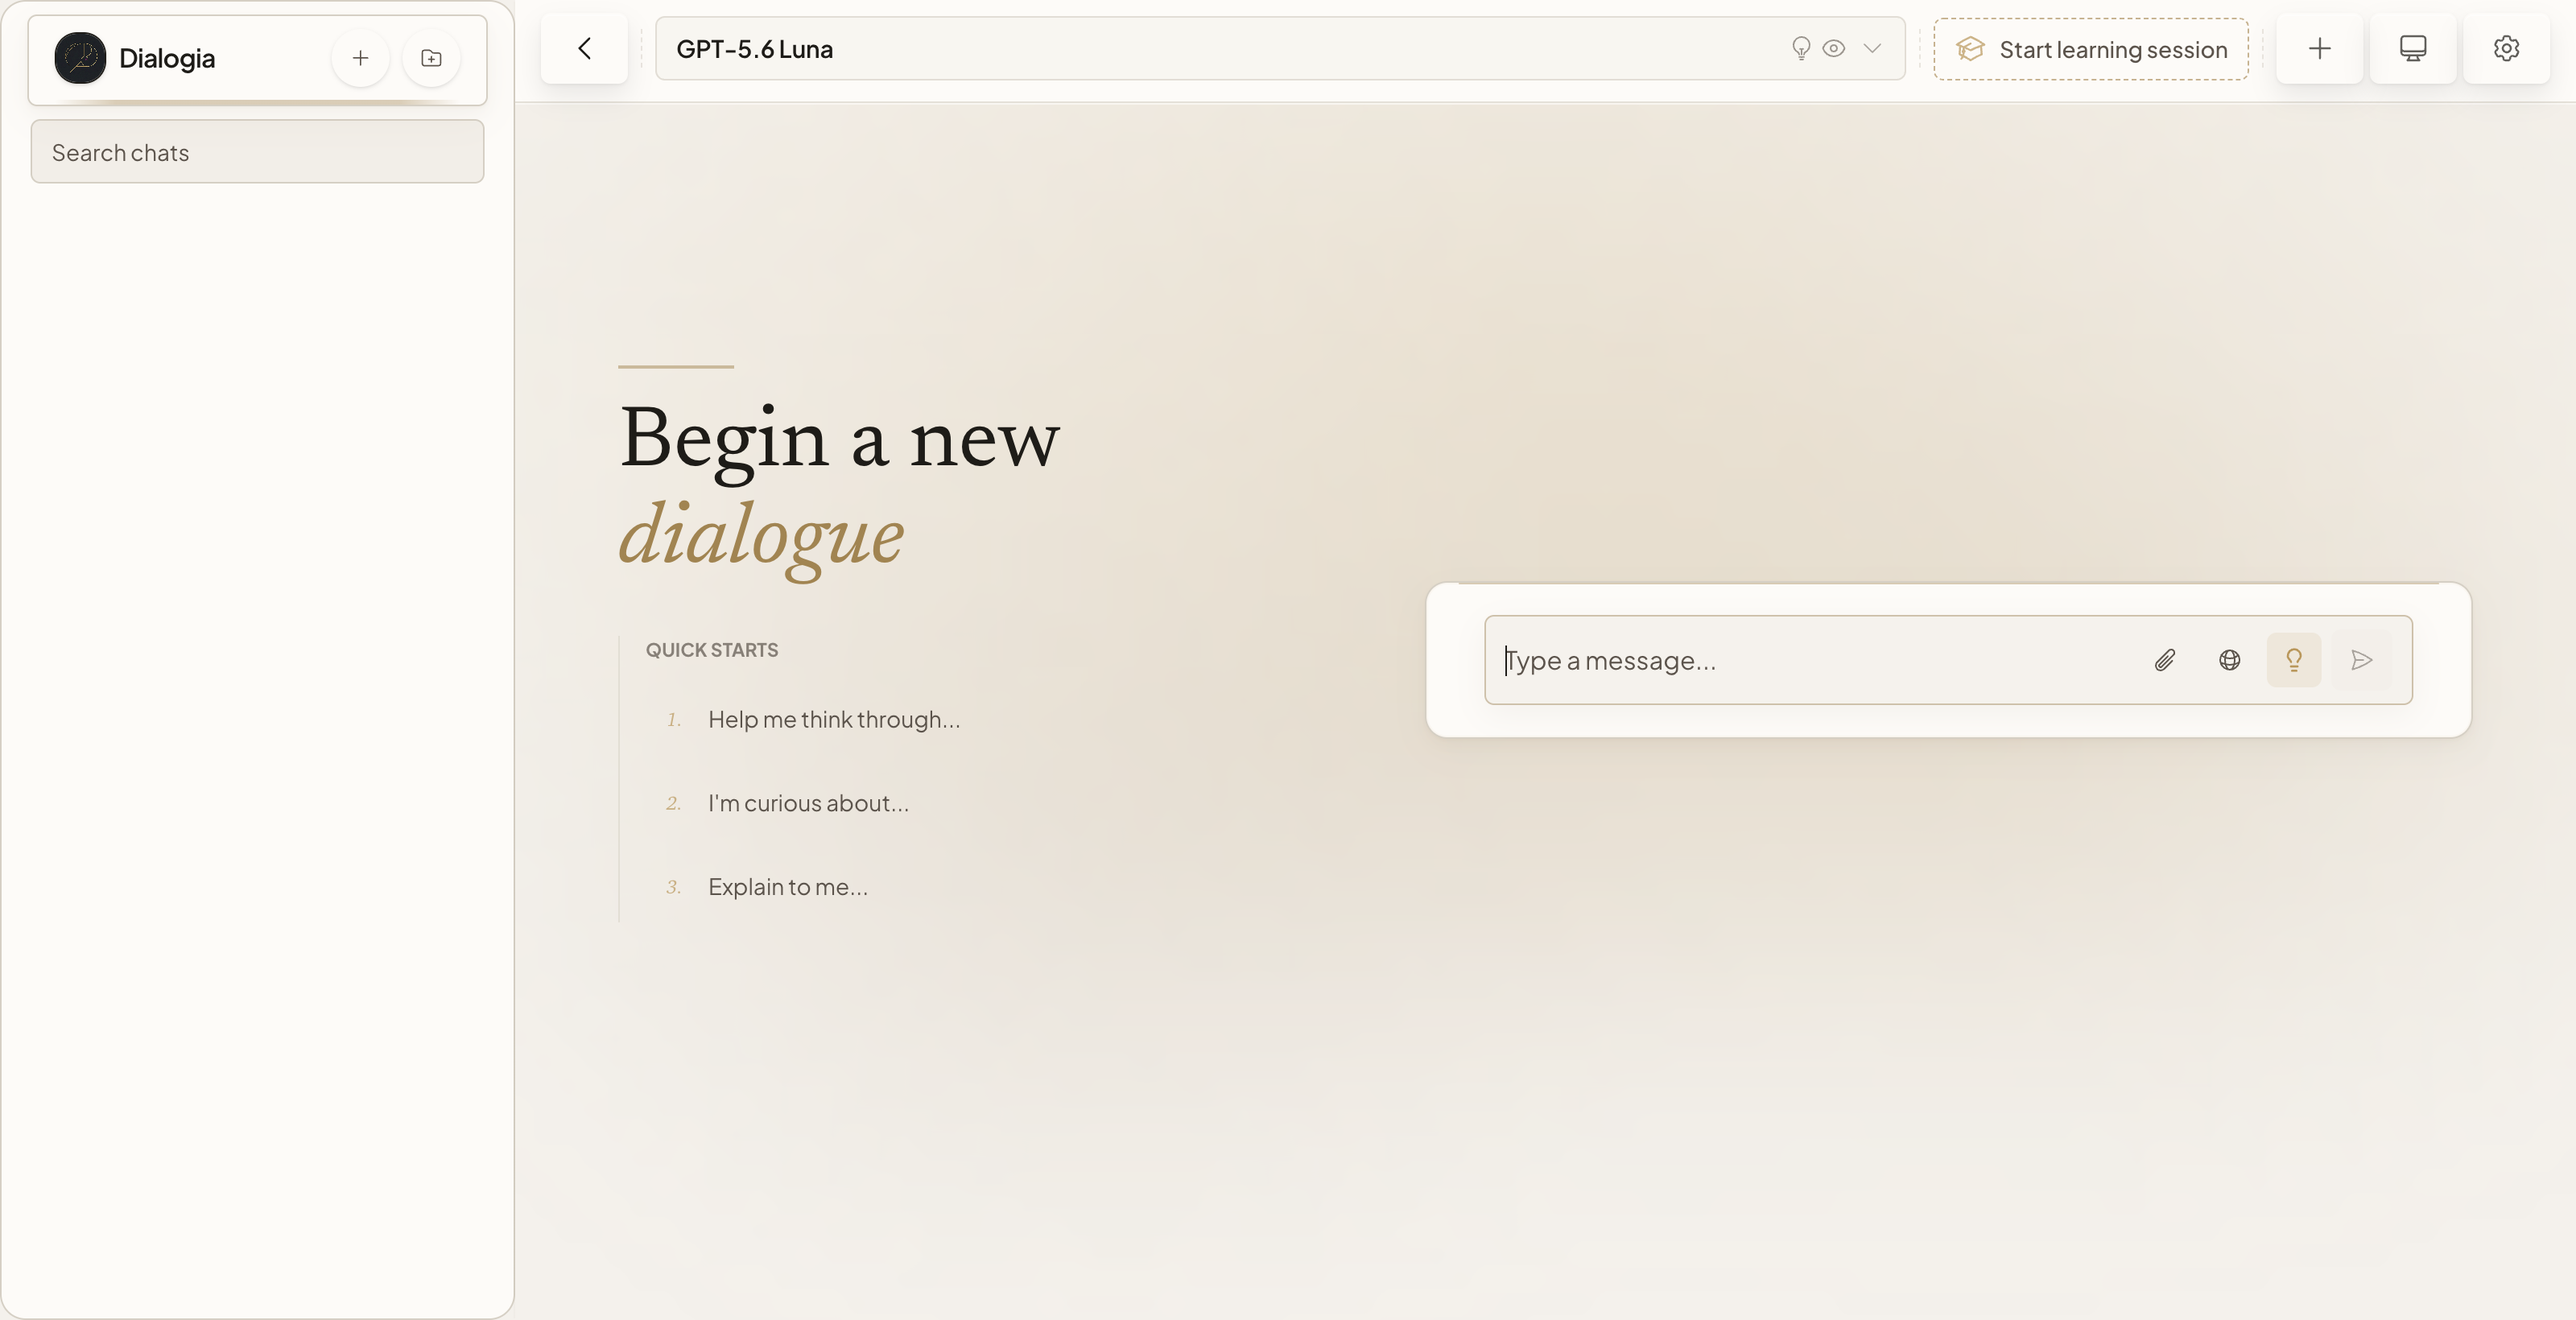
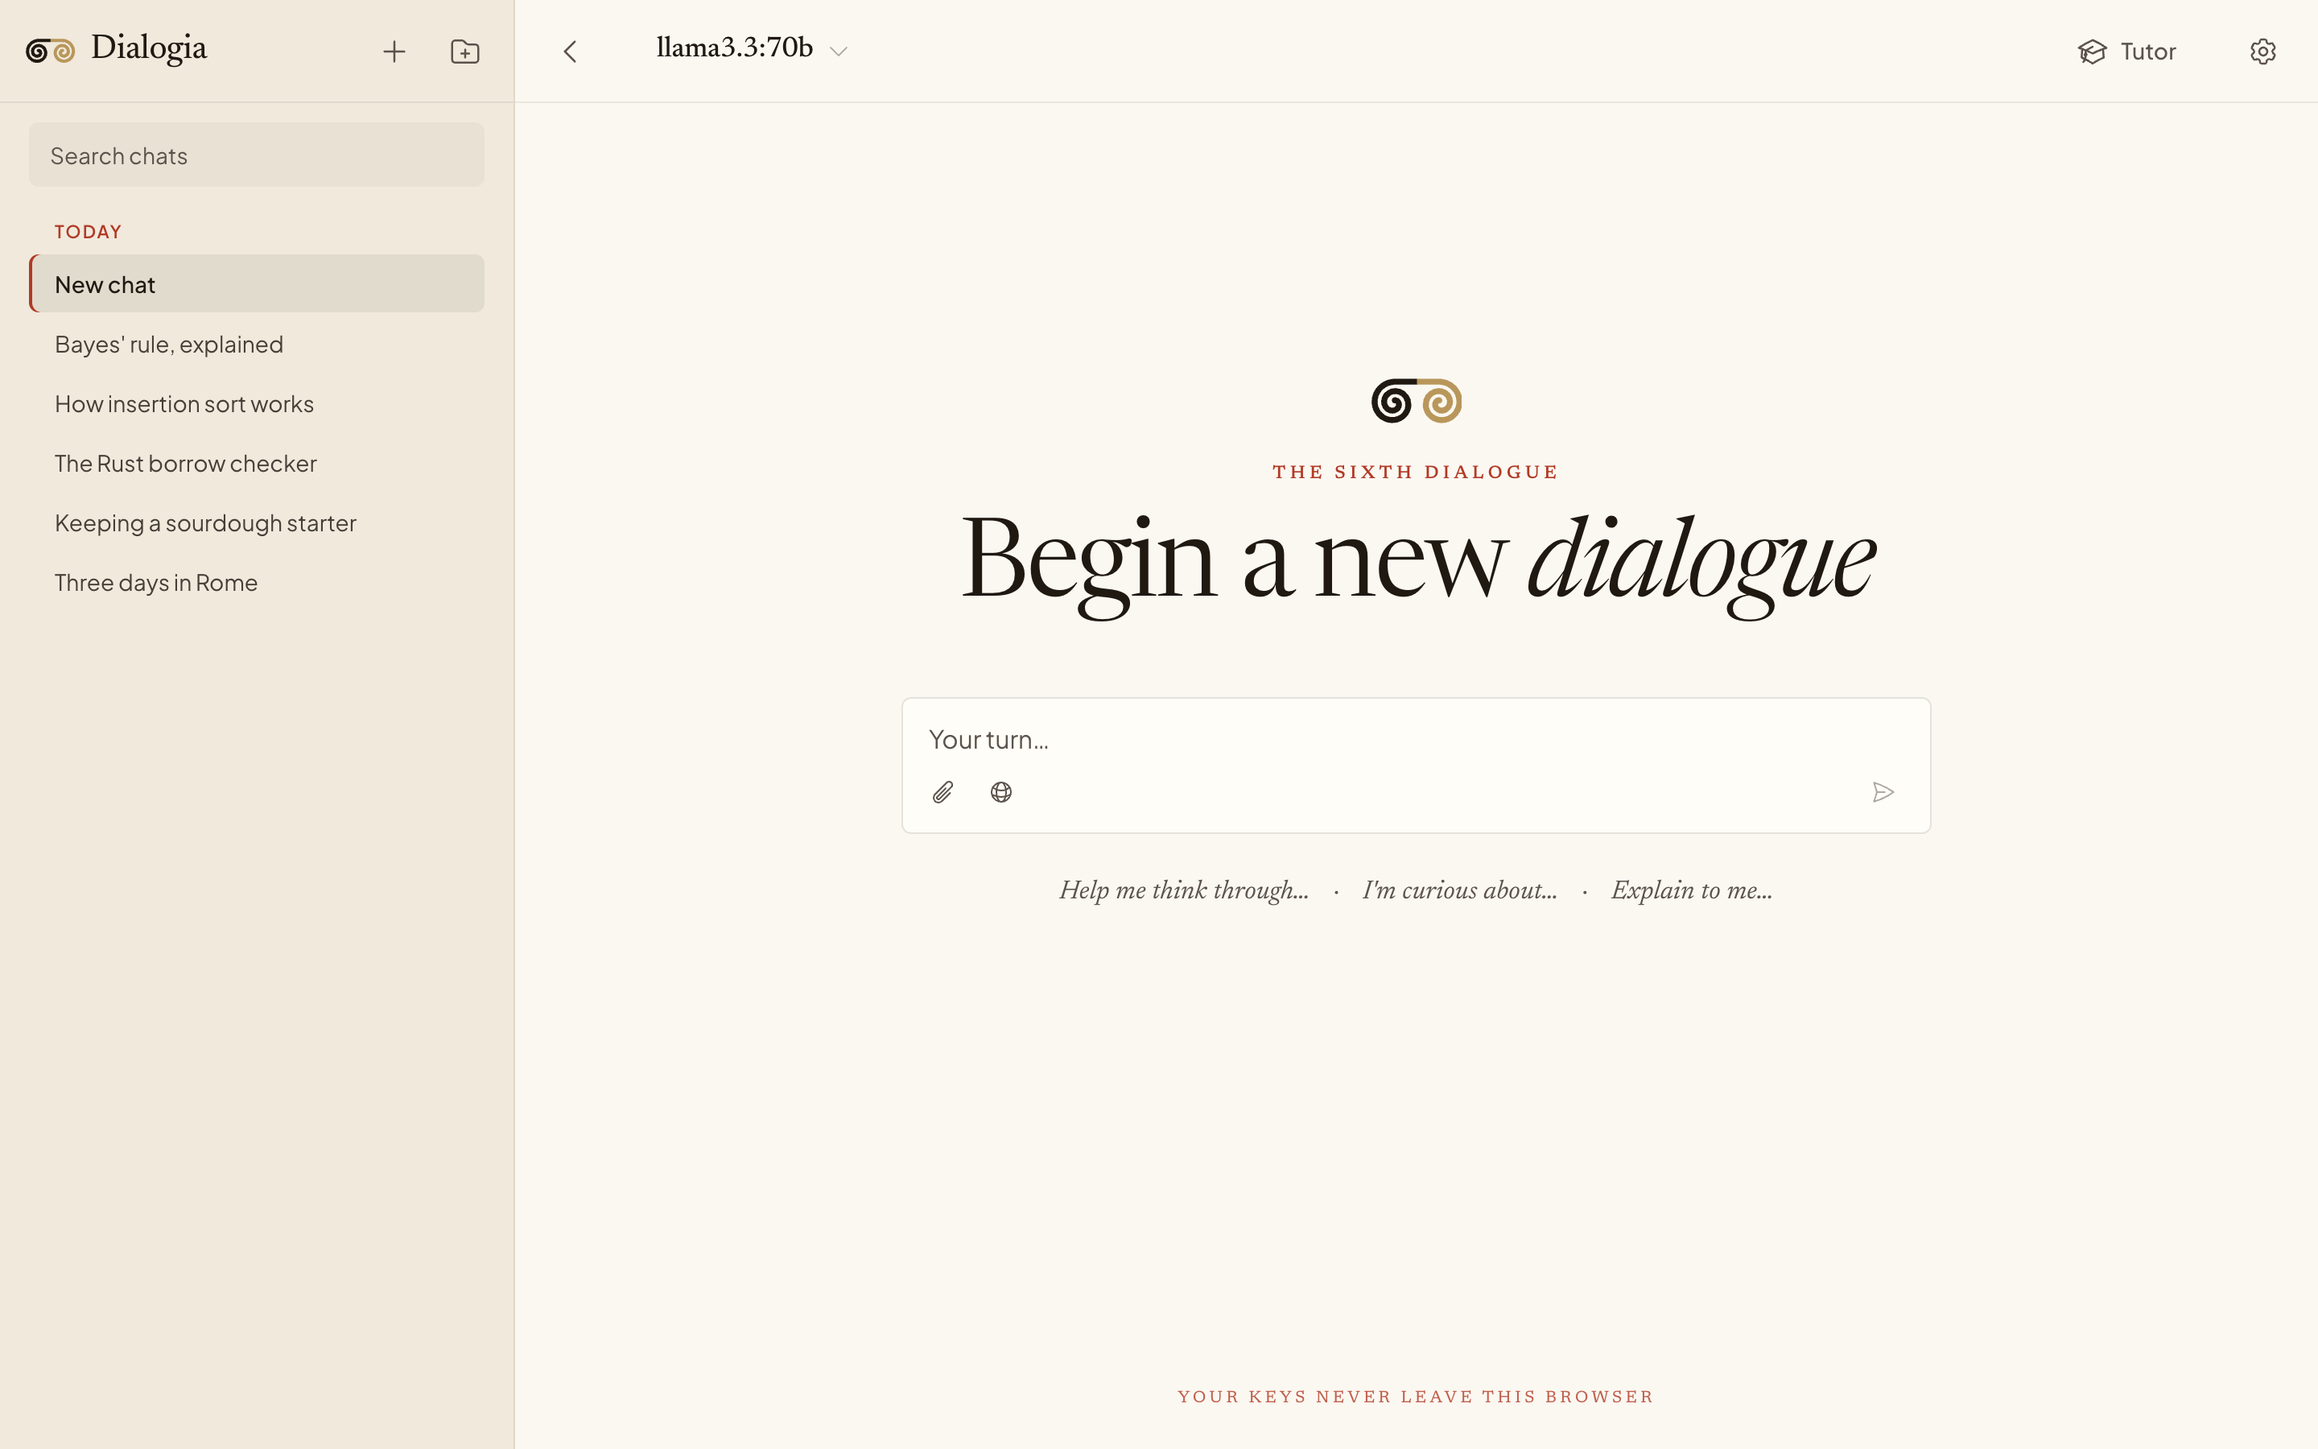
README: screenshots of the app as it is now
Recaptured the front page, a chat, the model picker and Settings (in the
dark theme) from the redesigned app, driven against a local
OpenAI-compatible server with Ollama-style models and no API key. The
image-generation shot is gone, since it cannot be shown without a real
provider; a phone-width chat takes its place.

Text fixes to match the app: no provider routing control exists any
more, the stats line is the opt-in colophon, local servers live under
Settings > Connections and list their own models, the picker has no
hide action, PDFs fall back to a file block only when no text can be
extracted, /reasoning takes every level from none to max, and
"favorites" is spelled as the app spells it.

diff --git a/README.md b/README.md
@@ -16,14 +16,14 @@ and it will run entirely against a model on your own machine if you want it to.
   no sync, and no server at all.
 - **Tutor mode.** An optional structured-learning mode. It generates a plan, tracks mastery, and
   runs diagnostics that adapt as you go.
-- **Real model control.** A curated picker with favourites, per-model capability flags, reasoning
-  effort per turn, provider routing preference, and optional Zero-Data-Retention (ZDR) enforcement.
+- **Real model control.** A curated picker with favorites, per-model capability flags, reasoning
+  effort per turn, and optional Zero-Data-Retention (ZDR) enforcement.
 - **Rich input and output.** Images, audio, and PDFs go in. Markdown with syntax highlighting, KaTeX
   and Mermaid comes out.
 - **Grounded answers.** Provider-native web search with any model key, or tool-based search through
   your own Tavily key.
-- **Streaming with the numbers.** Time to first token, tokens/sec, token counts, and
-  provider-reported cost.
+- **The numbers, when you want them.** Turn on the colophon in **Settings › Appearance** and each
+  reply carries its model, time to first token, token count, tokens/sec and cost.
 
 ![Chat](assets/chat.png)
 
@@ -34,8 +34,9 @@ bun install
 bun run dev
 ```
 
-Open http://localhost:3000. The setup sheet appears. Pick OpenRouter or Anthropic, paste a key, and
-send a message. That is the whole setup. There is no `.env` file to write and no build flags to set.
+Open http://localhost:3000. After a short tour you can skip, the setup sheet appears. Pick
+OpenRouter or Anthropic, paste a key, and send a message. That is the whole setup. There is no
+`.env` file to write and no build flags to set.
 
 Get a key from [openrouter.ai/keys](https://openrouter.ai/keys) (one key, most models) or
 [console.anthropic.com](https://console.anthropic.com) (Claude, direct).
@@ -49,9 +50,10 @@ ollama pull qwen3:8b
 bun run dev
 ```
 
-In the setup sheet choose **Local**, name it, and give it `http://localhost:11434/v1`. Then in
-**Settings › Providers** add the model ids you want and turn on the capabilities your server
-actually supports.
+In the setup sheet choose **Local**, name it, and give it `http://localhost:11434/v1`. Whatever the
+server lists at `/models` shows up in the picker under **Your servers**. Then in **Settings ›
+Connections**, under **Your servers**, turn on the capabilities your server actually supports, and
+add any model ids it does not list.
 
 Capabilities start off and stay off until you enable them. A strict OpenAI-compatible server rejects
 an entire request over one field it does not recognise, so Dialogia sends the minimal body until you
@@ -96,18 +98,22 @@ the app and live in the browser that pasted them.
 
 ## Using it
 
-- Pick a model in the header. Favourite or hide models to shape the list.
+- Pick a model in the header. The picker searches every model, and a model you pick from a search
+  joins your favorites, so it is there next time.
 - Enter sends, Shift+Enter adds a newline.
 - Attach images (vision models), audio (mp3/wav), or PDFs. PDF text is extracted client-side and
-  sent as text, and small files can optionally be sent as file blocks.
-- Toggle reasoning effort in the composer for thinking models. Expand the Thinking panel per
+  sent as text. A small PDF with no extractable text goes as a file block instead.
+- Set reasoning effort in the composer for thinking models. Expand the Thinking panel per
   message.
 - Toggle web search in the composer. With a search-provider key stored, the same control becomes a
   picker between provider-native and tool-based search.
 - The slash commands are `/model <id|name>`, `/search on|off|toggle`,
-  `/reasoning none|low|medium|high` and `/help`.
+  `/reasoning none|minimal|low|medium|high|xhigh|max` and `/help`. A model accepts only the
+  levels it offers.
+- On a phone the chat list, Tutor and Settings sit in a drawer behind the menu button, and the
+  model picker opens as a sheet from the bottom.
 
-![Image generation](assets/image-gen.png)
+<img src="assets/phone.png" alt="A chat at phone width" width="390">
 
 ### Tutor mode
 
